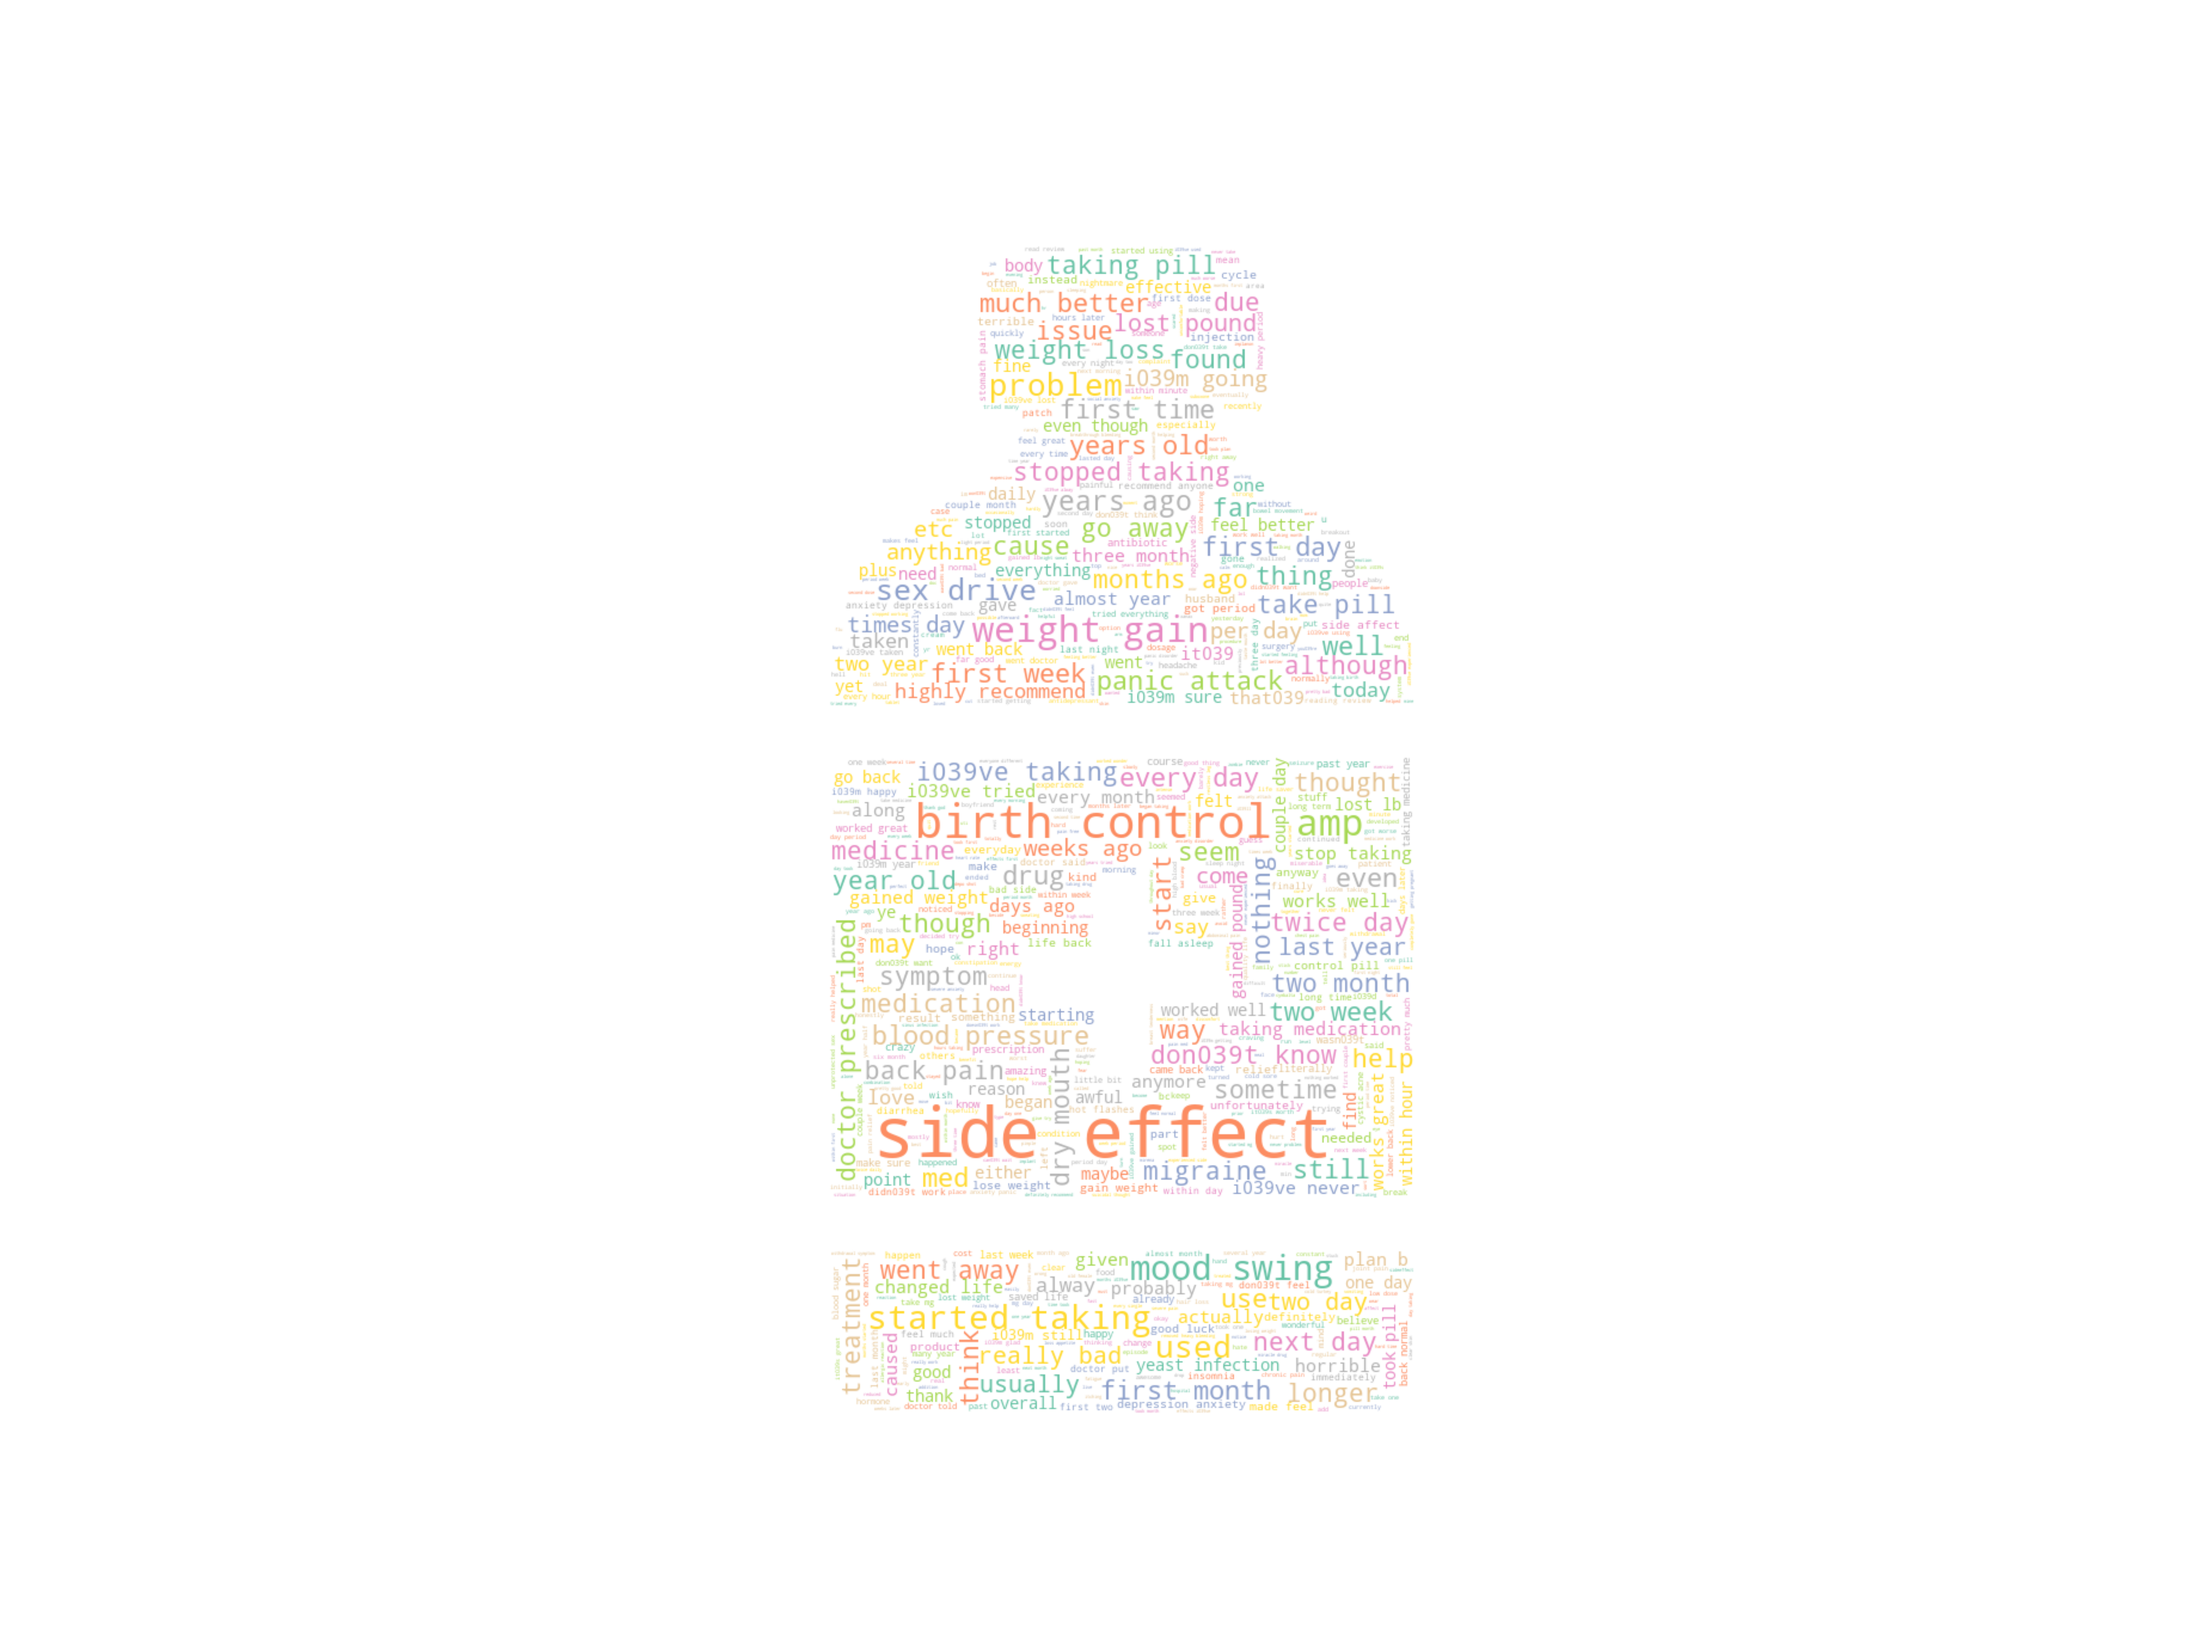
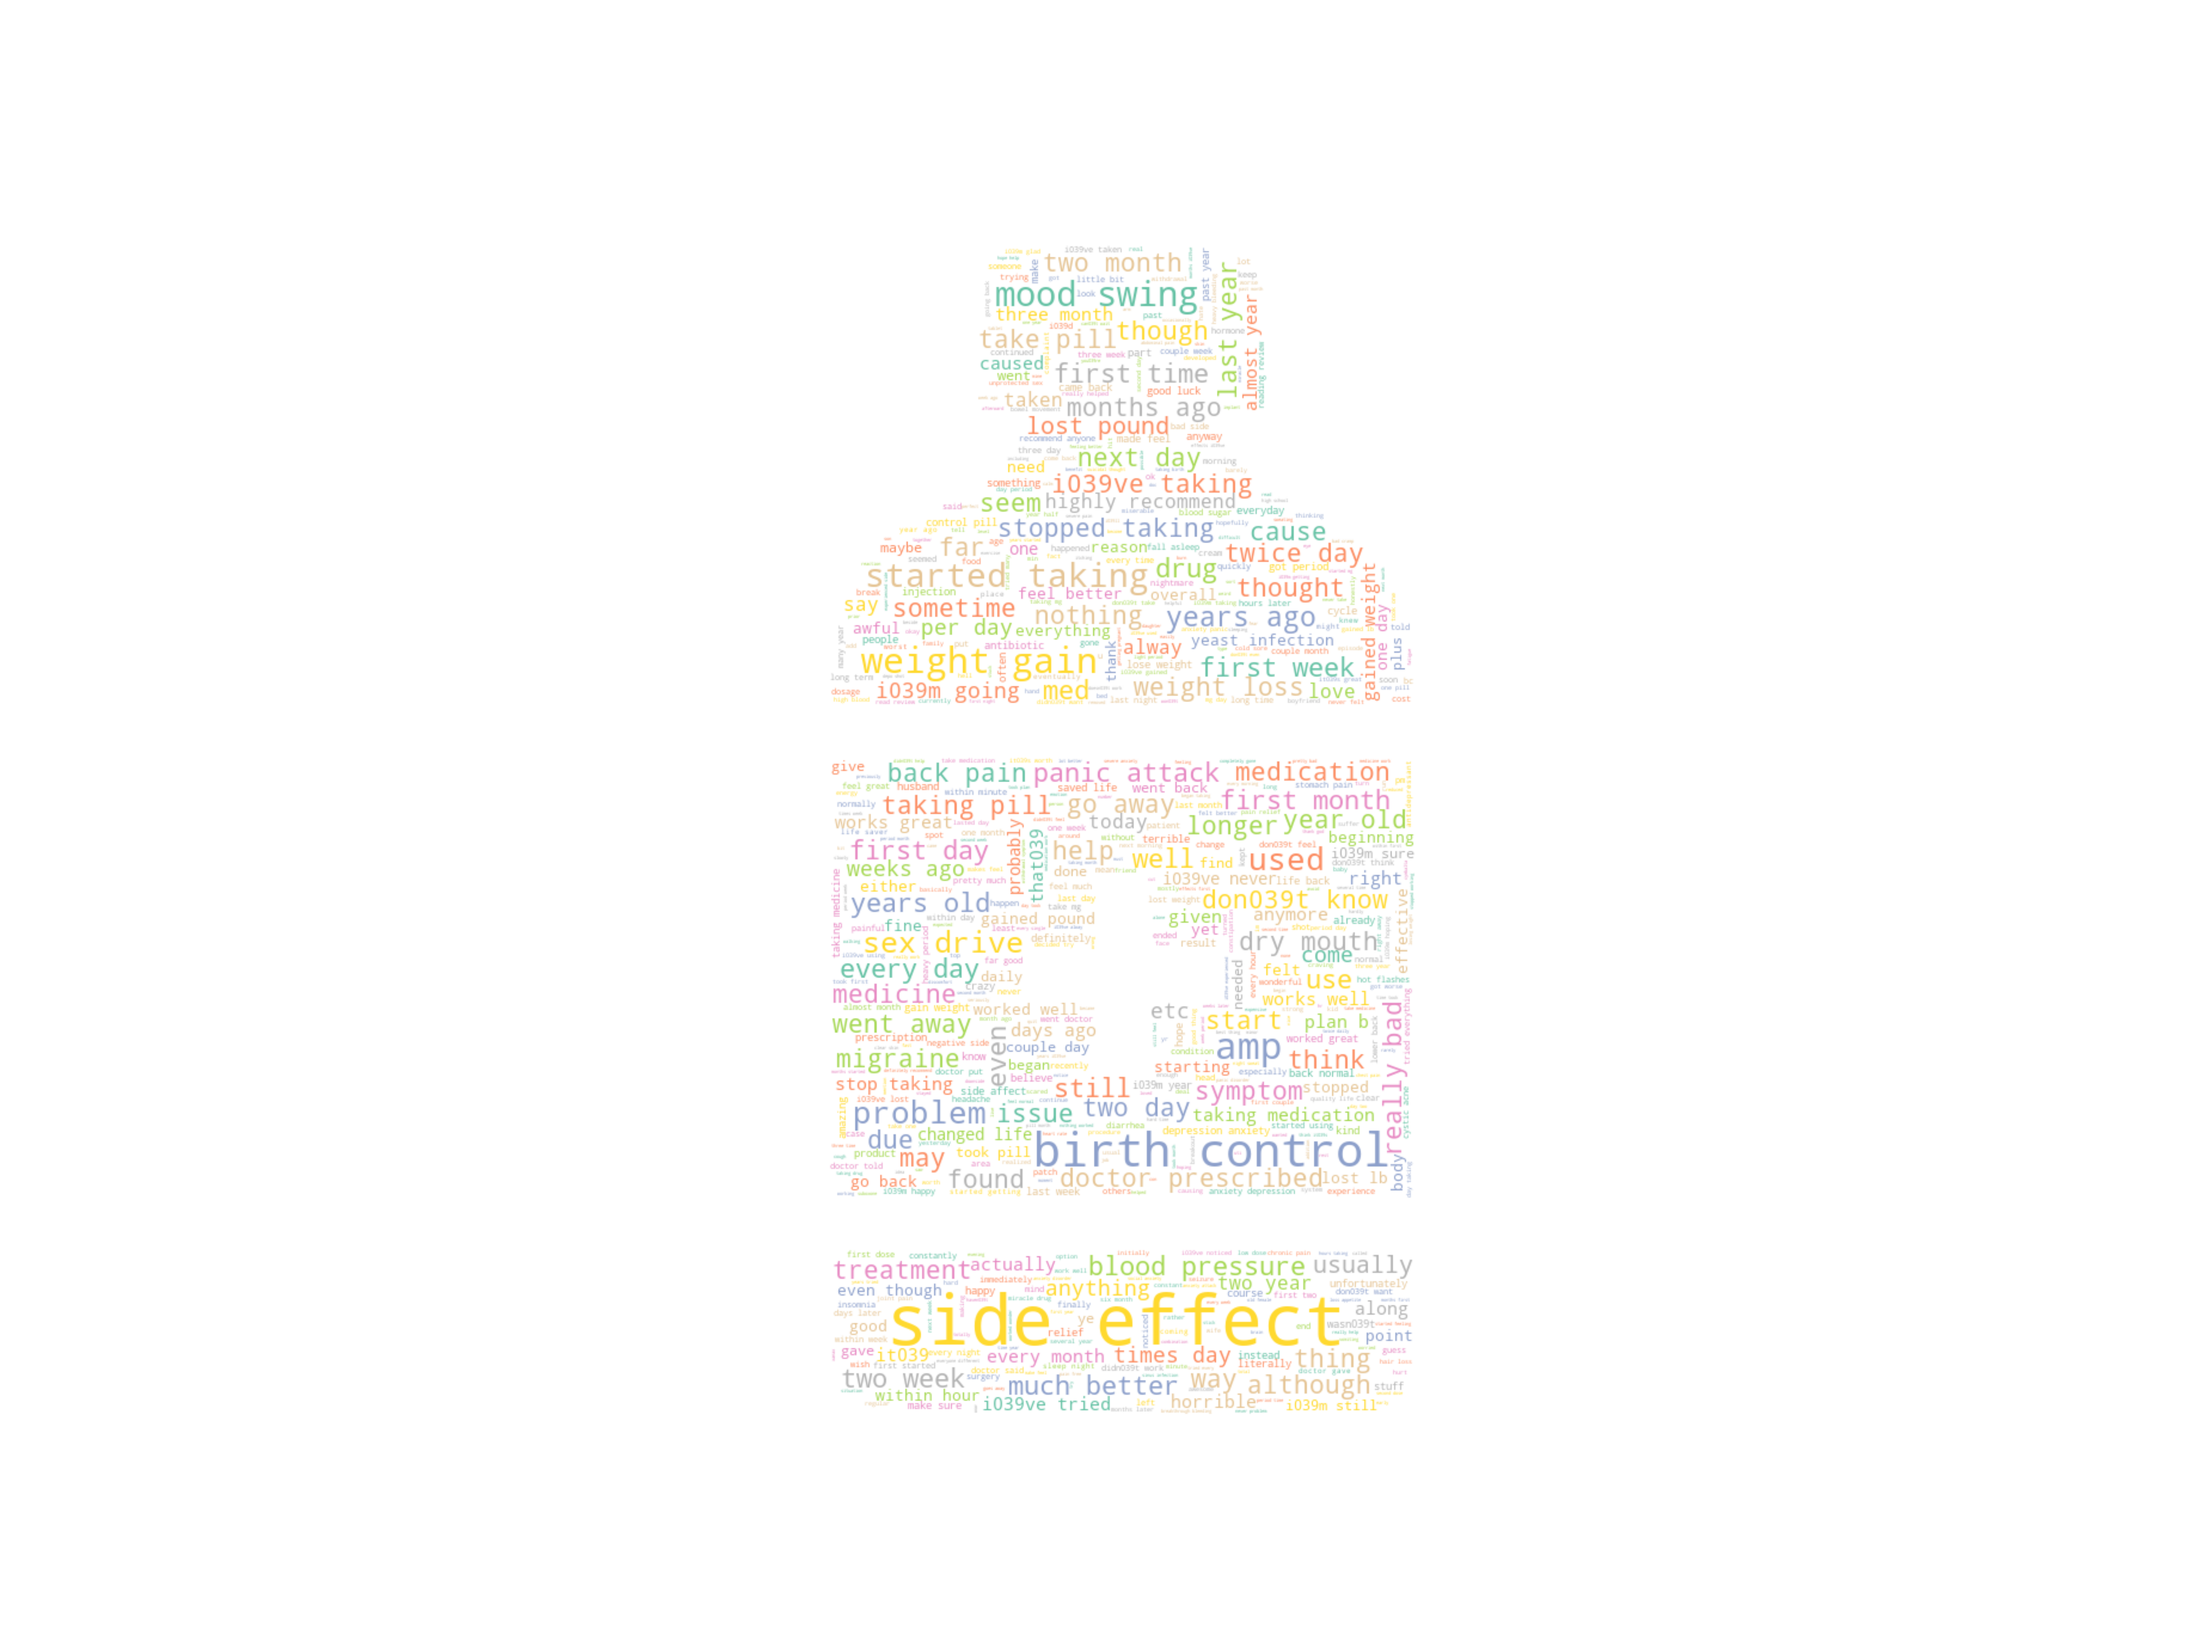
all plots are done, started fine-tuning

Changed region(s): [[0.375, 0.1562, 0.6562, 0.875]]

diff --git a/src/eda/visualize.py b/src/eda/visualize.py
@@ -7,8 +7,8 @@ plots include:
 - ratings distribution (check)
 - count of conditions (check)
 - useful count by conditions (check)
-- word2vec t_SNE of unigram and bigrams
-- word cloud
+- word2vec t_SNE of unigram and bigrams (check)
+- word cloud (check)
 
 (Select only some of them for final reports)
 
@@ -26,21 +26,32 @@ the columns are:
 # load packages 
 import os
 import numpy as np
-import pandas as pd 
+import pandas as pd
+import random
+from collections import defaultdict
 import multiprocessing as mp 
 import matplotlib.pyplot as plt
 
 from PIL import Image
 from wordcloud import WordCloud
 
+from gensim.models import Word2Vec
+from sklearn.manifold import TSNE
+
 # specify paths 
 SAVE_IMAGE_PATH = 'images'
+SAVE_MODEL_PATH = 'saved_models'
 PREPROCESSED_FEAT_PATH = 'data/preprocessed'
+
+# plotting style 
 plt.style.use('ggplot')  # better rendering 
 
-# =======================
-# ------ plots ----------
-# =======================
+# fixed: num workers 
+MAX_WORKERS = mp.cpu_count()
+
+# ========================================
+# ------ plots on original data ----------
+# ========================================
 
 def plot_basic_stats(df: pd.DataFrame):
     """
@@ -163,12 +174,13 @@ def plot_useful_counts_groupby_rating(df: pd.DataFrame):
     # save 
     plt.savefig(os.path.join(SAVE_IMAGE_PATH, 'useful_counts_groupby_rating.png'), dpi=300)
 
+# ============================================
+# ------ plots on preprocessed data ----------
+# ============================================
 
-def plot_word_cloud():
-    """ 
-    word_cloud!
-    """
-    # read in preprocessed tokens 
+def load_full_preprocessed_tokens():
+    """ load preprocessed tokens """
+    # read in preprocessed tokens
     tokens_path_train = os.path.join(
         PREPROCESSED_FEAT_PATH, 'tokenized_reviews_train.csv')
     tokens_path_test = os.path.join(
@@ -176,6 +188,14 @@ def plot_word_cloud():
     train_tokens = pd.read_csv(tokens_path_train)
     test_tokens = pd.read_csv(tokens_path_test)
     full_tokens = pd.concat([train_tokens, test_tokens])
+    return full_tokens
+
+def plot_word_cloud():
+    """ 
+    word_cloud 
+    """
+    # read in preprocessed tokens 
+    full_tokens = load_full_preprocessed_tokens()
     text = ' '.join(str(review) for review in full_tokens['review'].to_numpy())
 
     # wordcloud
@@ -187,10 +207,11 @@ def plot_word_cloud():
         max_words=1000,
         mode="RGBA", 
         mask=pill_bottle_mask.astype(np.int32),
-        width=3000,
+        width=500,
         height=2000,
         colormap='Set2'  # TODO: want a better colormap, maybe ...
-    )
+    )  
+    # TODO: for some reason I am not able to set the figure size of the wordcloud plot ... need help ...
     wc.generate(text)
     plt.imshow(wc, interpolation='bilinear')
     plt.axis("off")
@@ -198,3 +219,116 @@ def plot_word_cloud():
 
 
 # TODO: word2vec unigram and bigram t_SNE
+def plot_unigram_emb(top_k=150):
+    """
+    plot unigram word embeddings in 2D spaces 
+    :param top_k: plot on the top_k words only 
+    """
+    # read 
+    full_tokens = load_full_preprocessed_tokens()
+    unigrams = [str(x).split() for x in full_tokens['review'].to_numpy()]
+
+    # word2vec
+    model = Word2Vec(
+        sentences=unigrams,
+        vector_size=100,
+        window=5, 
+        min_count=1,
+        workers=MAX_WORKERS
+    )
+    model.save(os.path.join(SAVE_MODEL_PATH, 'unigram_w2v.model'))
+
+    # count unigrams
+    unigram_count = defaultdict(int)
+    for unigram_list in unigrams:
+        for unigram in unigram_list:
+            unigram_count[str(unigram)] += 1
+    unigram_count_list = list(unigram_count.items())
+    unigram_count_list.sort(key=lambda x: -x[1])  # descending on occurrences 
+    top_unigrams = [x[0] for x in unigram_count_list[:top_k]]
+    top_unigrams_emb = model.wv[top_unigrams]
+
+    # plot 
+    embeddings_transformed = TSNE(
+        n_components=2,
+        learning_rate='auto', 
+        init='random'
+    ).fit_transform(top_unigrams_emb)
+
+    # visualize 
+    x = embeddings_transformed[:, 0]
+    y = embeddings_transformed[:, 1]
+    plt.figure(figsize=(20, 10))
+    colors = list(range(len(x)))
+    random.shuffle(colors)
+    plt.scatter(
+        x=x, 
+        y=y, 
+        c=colors, # a lazy way of assigning different colors
+        s=100,
+        cmap='Set2'
+    )
+    for i, unigram in enumerate(top_unigrams):
+        plt.annotate(unigram, (x[i], y[i]), xytext=(x[i]-0.2, y[i]+0.2), fontsize=8)
+    plt.title('Word2Vec Embeddings for Drug Reviews (Unigram)')
+    
+    # save 
+    plt.savefig(os.path.join(SAVE_IMAGE_PATH, 'unigram_w2v.png'), dpi=300)
+
+
+def plot_bigram_emb(top_k=100):
+    """ bigram version of wv """
+    # read and populate bigrams 
+    full_tokens = load_full_preprocessed_tokens()['review'].to_numpy()
+    bigrams = []
+    for review in full_tokens:
+        grams = str(review).split()
+        if len(grams) <= 1: continue 
+        bigrams.append(list(zip(grams[:-1], grams[1:])))
+
+    # word2vec
+    model = Word2Vec(
+        sentences=bigrams,
+        vector_size=100,
+        window=5,
+        min_count=1,
+        workers=MAX_WORKERS
+    )
+    model.save(os.path.join(SAVE_MODEL_PATH, 'bigram_w2v.model'))
+
+    # count unigrams
+    bigram_count = defaultdict(int)
+    for bigram_list in bigrams:
+        for bigram in bigram_list:
+            bigram_count[bigram] += 1
+    bigram_count_list = list(bigram_count.items())
+    bigram_count_list.sort(key=lambda x: -x[1])  # descending on occurrences
+    top_bigrams = [x[0] for x in bigram_count_list[:top_k]]
+    top_bigrams_emb = model.wv[top_bigrams]
+
+    # plot
+    embeddings_transformed = TSNE(
+        n_components=2,
+        learning_rate='auto',
+        init='random'
+    ).fit_transform(top_bigrams_emb)
+
+    # visualize
+    x = embeddings_transformed[:, 0]
+    y = embeddings_transformed[:, 1]
+    plt.figure(figsize=(20, 10))
+    colors = list(range(len(x)))
+    random.shuffle(colors)
+    plt.scatter(
+        x=x,
+        y=y,
+        c=colors,  # a lazy way of assigning different colors
+        s=100,
+        cmap='Set2'
+    )
+    for i, bigram in enumerate(top_bigrams):
+        plt.annotate(bigram, (x[i], y[i]), xytext=(x[i]-0.2, y[i]+0.2), fontsize=8)
+    plt.title('Word2Vec Embeddings for Drug Reviews (Bigram)')
+
+    # save
+    plt.savefig(os.path.join(SAVE_IMAGE_PATH, 'bigram_w2v.png'), dpi=300)

diff --git a/run.py b/run.py
@@ -25,6 +25,8 @@ from src.eda.visualize import (
     plot_useful_counts_groupby_condition,
     plot_useful_counts_groupby_rating,
     plot_word_cloud,
+    plot_unigram_emb,
+    plot_bigram_emb,
 
 )
 # preprocessing 
@@ -65,7 +67,9 @@ def main(targets):
         # plot_useful_counts_groupby_rating(full_df)
 
         # plots on preprocessed data
-        plot_word_cloud()
+        # plot_word_cloud()
+        # plot_unigram_emb()
+        plot_bigram_emb()
         print('EDA Complete')
 
     if 'preprocess' in targets:
